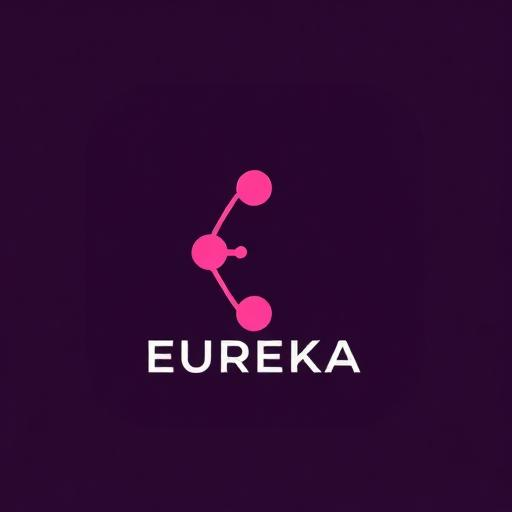
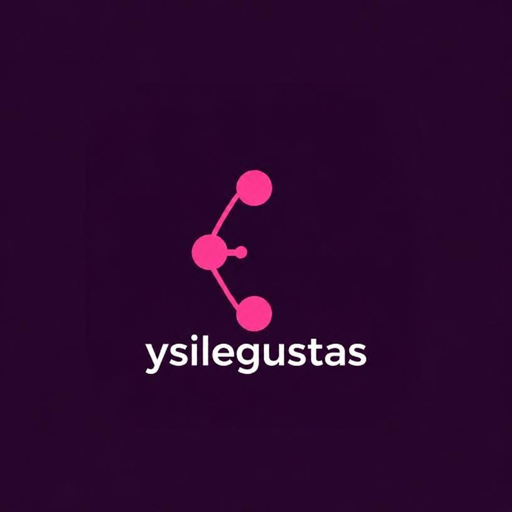
Sustituye la marca EurekaMatch por ysilegustas en web y comunicaciones

Changed region(s): [[0.2812, 0.6562, 0.7188, 0.75], [0.4375, 0.375, 0.4688, 0.4062], [0.4062, 0.4375, 0.4375, 0.4688]]

diff --git a/index.html b/index.html
@@ -5,33 +5,33 @@
     <meta name="viewport" content="width=device-width, initial-scale=1.0, maximum-scale=1.0, user-scalable=no" />
     
     <!-- App Info -->
-    <title>EUREKA - Descubre si es mutuo</title>
-    <meta name="description" content="Descubre si el amor, la amistad o la atracción es mutua. EUREKA te ayuda a saber si hay reciprocidad." />
-    <meta name="author" content="EUREKA" />
+    <title>ysilegustas - Descubre si le gustas a alguien que te gusta</title>
+    <meta name="description" content="Descubre si le gustas a alguien que te gusta. Elige en privado y conoce si el interés es mutuo." />
+    <meta name="author" content="ysilegustas" />
     
     <!-- PWA Meta Tags -->
     <meta name="theme-color" content="#e11d48" />
     <meta name="mobile-web-app-capable" content="yes" />
     <meta name="apple-mobile-web-app-capable" content="yes" />
     <meta name="apple-mobile-web-app-status-bar-style" content="black-translucent" />
-    <meta name="apple-mobile-web-app-title" content="EUREKA" />
+    <meta name="apple-mobile-web-app-title" content="ysilegustas" />
     
     <!-- PWA Icons -->
-    <link rel="icon" type="image/png" href="/favicon.ico" />
+    <link rel="icon" type="image/png" href="/favicon.png" />
     <link rel="apple-touch-icon" href="/apple-touch-icon.png" />
     <link rel="manifest" href="/manifest.webmanifest" />
     
     <!-- Open Graph -->
-    <meta property="og:title" content="EUREKA - Descubre si es mutuo" />
-    <meta property="og:description" content="Descubre si el amor, la amistad o la atracción es mutua" />
+    <meta property="og:title" content="ysilegustas - Descubre si le gustas a alguien que te gusta" />
+    <meta property="og:description" content="Descubre si le gustas a alguien que te gusta. Elige en privado y conoce si el interés es mutuo." />
     <meta property="og:type" content="website" />
     <meta property="og:image" content="/og-image.png" />
-    <meta property="og:url" content="https://eurekaconsent.lovable.app" />
+    <meta property="og:url" content="https://eurekamatch.com" />
     
     <!-- Twitter -->
     <meta name="twitter:card" content="summary_large_image" />
-    <meta name="twitter:title" content="EUREKA - Descubre si es mutuo" />
-    <meta name="twitter:description" content="Descubre si el amor, la amistad o la atracción es mutua" />
+    <meta name="twitter:title" content="ysilegustas - Descubre si le gustas a alguien que te gusta" />
+    <meta name="twitter:description" content="Descubre si le gustas a alguien que te gusta. Elige en privado y conoce si el interés es mutuo." />
     <meta name="twitter:image" content="/og-image.png" />
   </head>
 

diff --git a/src/pages/Landing.tsx b/src/pages/Landing.tsx
@@ -30,7 +30,7 @@ function ExperimentLanding() {
     <div className="landing-experiment min-h-screen bg-background text-foreground">
       <header className="border-b border-border">
         <div className="mx-auto flex max-w-6xl items-center justify-between gap-4 px-5 py-4 md:px-8">
-          <span className="flex items-center gap-2 text-lg font-semibold"><Sparkles className="h-5 w-5 text-primary" /> EurekaMatch</span>
+          <span className="flex items-center gap-2 text-lg font-semibold"><Sparkles className="h-5 w-5 text-primary" /> ysilegustas</span>
         </div>
       </header>
       <section className="landing-scene relative isolate overflow-hidden">
@@ -38,7 +38,7 @@ function ExperimentLanding() {
         <div className="landing-scene-shade absolute inset-0 -z-10" />
         <div className="mx-auto max-w-6xl px-5 pb-10 pt-12 md:px-8 md:pb-14 md:pt-20">
           <div className="max-w-xl">
-            <p className="mb-6 text-sm font-medium text-primary">EurekaMatch</p>
+            <p className="mb-6 text-sm font-medium text-primary">ysilegustas</p>
             <h1 className="text-4xl font-bold leading-tight md:text-5xl">{copy.title}</h1>
             <p className="mt-6 max-w-md text-base leading-relaxed text-secondary-foreground md:text-lg">{copy.subtitle}</p>
           </div>
@@ -70,7 +70,7 @@ function ExperimentLanding() {
           <div className="flex flex-wrap justify-center gap-4 text-xs text-muted-foreground">
             <Link to="/terms">Términos y Condiciones</Link><span>·</span><Link to="/privacy">Política de Privacidad</Link>
           </div>
-          <p className="text-xs text-muted-foreground">© {new Date().getFullYear()} EurekaMatch. Todos los derechos reservados.</p>
+          <p className="text-xs text-muted-foreground">© {new Date().getFullYear()} ysilegustas. Todos los derechos reservados.</p>
         </div>
       </footer>
     </div>

diff --git a/supabase/functions/send-email-verification/index.ts b/supabase/functions/send-email-verification/index.ts
@@ -112,9 +112,9 @@ const handler = async (req: Request): Promise<Response> => {
 
     // Send verification email
     await resend.emails.send({
-      from: "EurekaMatch <info@eurekamatch.com>",
+      from: "ysilegustas <info@eurekamatch.com>",
       to: [email],
-      subject: "✉ Verifica tu email en EurekaMatch",
+      subject: "✉ Verifica tu email en ysilegustas",
       html: generateVerificationEmail(verifyUrl),
     });
 
@@ -146,7 +146,7 @@ function generateVerificationEmail(verifyUrl: string): string {
         
         <div style="text-align: center; padding: 30px 0 20px;">
           <div style="font-size: 42px; margin-bottom: 8px;">💌</div>
-          <h1 style="color: #ffffff; margin: 0; font-size: 26px; font-weight: 700; letter-spacing: -0.5px;">EurekaMatch</h1>
+          <h1 style="color: #ffffff; margin: 0; font-size: 26px; font-weight: 700; letter-spacing: -0.5px;">ysilegustas</h1>
         </div>
         
         <div style="background: #16213e; border-radius: 16px; padding: 32px; border: 1px solid rgba(255,255,255,0.08);">
@@ -172,7 +172,7 @@ function generateVerificationEmail(verifyUrl: string): string {
         </div>
         
         <p style="text-align: center; font-size: 12px; color: #4a4a5e; margin-top: 24px; line-height: 1.5;">
-          Este email fue enviado desde EurekaMatch<br>
+          Este email fue enviado desde ysilegustas<br>
           Si no creaste una cuenta, puedes ignorar este email.
         </p>
       </div>

diff --git a/src/config/app.config.ts b/src/config/app.config.ts
@@ -20,7 +20,7 @@ export interface AppConfig {
 const appConfigs: Record<AppType, AppConfig> = {
   love: {
     appType: 'love',
-    appName: 'EUREKA LOVE',
+    appName: 'ysilegustas',
     maxPicks: 2,
     primaryColor: 'hsl(346, 77%, 49%)', // Rose/pink
     accentColor: 'hsl(346, 77%, 59%)',
@@ -28,7 +28,7 @@ const appConfigs: Record<AppType, AppConfig> = {
   },
   friends: {
     appType: 'friends',
-    appName: 'EUREKA FRIENDS',
+    appName: 'ysilegustas',
     maxPicks: 5,
     primaryColor: 'hsl(25, 95%, 53%)', // Orange/amber
     accentColor: 'hsl(25, 95%, 63%)',
@@ -36,7 +36,7 @@ const appConfigs: Record<AppType, AppConfig> = {
   },
   sex: {
     appType: 'sex',
-    appName: 'EUREKA SEX',
+    appName: 'ysilegustas',
     maxPicks: 2,
     primaryColor: 'hsl(0, 84%, 50%)', // Red
     accentColor: 'hsl(0, 84%, 60%)',
@@ -44,7 +44,7 @@ const appConfigs: Record<AppType, AppConfig> = {
   },
   hobby: {
     appType: 'hobby',
-    appName: 'EUREKA HOBBY',
+    appName: 'ysilegustas',
     maxPicks: 5,
     primaryColor: 'hsl(142, 71%, 45%)', // Green
     accentColor: 'hsl(142, 71%, 55%)',

diff --git a/src/pages/LegacyLanding.tsx b/src/pages/LegacyLanding.tsx
@@ -83,7 +83,7 @@ const Landing = () => {
             <div className="w-10 h-10 rounded-full flex items-center justify-center bg-gradient-to-br from-violet-500 to-purple-600 text-white">
               <Sparkles className="w-5 h-5" />
             </div>
-            <span className="text-lg font-semibold text-foreground">EUREKA</span>
+            <span className="text-lg font-semibold text-foreground">ysilegustas</span>
           </div>
           <LanguageSelector />
         </div>
@@ -231,7 +231,7 @@ const Landing = () => {
         <div className="max-w-4xl mx-auto text-center space-y-3">
           <LegalFooter />
           <p className="text-muted-foreground text-sm">
-            © {new Date().getFullYear()} EUREKA. {t("landing.footer.rights")}
+            © {new Date().getFullYear()} ysilegustas. {t("landing.footer.rights")}
           </p>
         </div>
       </footer>

diff --git a/supabase/functions/send-match-notification/index.ts b/supabase/functions/send-match-notification/index.ts
@@ -19,10 +19,10 @@ interface MatchNotificationRequest {
 
 // App-specific configurations
 const appConfigs: Record<string, { name: string; emoji: string; fromName: string }> = {
-  love: { name: "Eureka Love", emoji: "💕", fromName: "Eureka Love" },
-  friends: { name: "Eureka Friends", emoji: "🎉", fromName: "Eureka Friends" },
-  sex: { name: "Eureka Sex", emoji: "🔥", fromName: "Eureka Sex" },
-  hobby: { name: "Eureka Hobby", emoji: "🏆", fromName: "Eureka Hobby" },
+  love: { name: "ysilegustas", emoji: "💕", fromName: "ysilegustas" },
+  friends: { name: "ysilegustas", emoji: "🎉", fromName: "ysilegustas" },
+  sex: { name: "ysilegustas", emoji: "🔥", fromName: "ysilegustas" },
+  hobby: { name: "ysilegustas", emoji: "🏆", fromName: "ysilegustas" },
 };
 
 // Email translations per language

diff --git a/supabase/functions/create-paypal-order/index.ts b/supabase/functions/create-paypal-order/index.ts
@@ -85,13 +85,13 @@ serve(async (req) => {
               currency_code: "EUR",
               value: Number(pack.price).toFixed(2),
             },
-            description: `EUREKA - ${pack.name} (${pack.picks_count} créditos)`,
+            description: `ysilegustas - ${pack.name} (${pack.picks_count} créditos)`,
             // custom_id stores only user_id and pack_id; price/picks are re-read from DB on capture
             custom_id: JSON.stringify({ user_id: userId, pack_id: pack.id }),
           },
         ],
         application_context: {
-          brand_name: "EUREKA",
+          brand_name: "ysilegustas",
           landing_page: "BILLING",
           shipping_preference: "NO_SHIPPING",
           user_action: "PAY_NOW",

diff --git a/supabase/functions/send-pick-notification/index.ts b/supabase/functions/send-pick-notification/index.ts
@@ -156,12 +156,12 @@ serve(async (req: Request) => {
     }
 
     const appNames: Record<string, string> = {
-      love: "Eureka Love 💕",
-      friends: "Eureka Friends 🎉",
-      sex: "Eureka Sex 🔥",
-      hobby: "Eureka Hobby 🏆",
+      love: "ysilegustas 💕",
+      friends: "ysilegustas 🎉",
+      sex: "ysilegustas 🔥",
+      hobby: "ysilegustas 🏆",
     };
-    const appLabel = appNames[pick.app_type] || "EurekaMatch";
+    const appLabel = appNames[pick.app_type] || "ysilegustas";
 
     const optOutText = "\n\nPara dejar de recibir estos mensajes, entra en eurekamatch.lovable.app y desactívalo en Ajustes.";
     const template = globalConfig.notification_sms_template ||

diff --git a/vite.config.ts b/vite.config.ts
@@ -18,10 +18,10 @@ export default defineConfig(({ mode }) => ({
     mode === "development" && componentTagger(),
     VitePWA({
       registerType: "autoUpdate",
-      includeAssets: ["favicon.ico", "apple-touch-icon.png", "mask-icon.svg"],
+      includeAssets: ["favicon.png", "apple-touch-icon.png", "mask-icon.svg"],
       manifest: {
-        name: "EUREKA - Descubre si es mutuo",
-        short_name: "EUREKA",
+        name: "ysilegustas - Descubre si es mutuo",
+        short_name: "ysilegustas",
         description: "Descubre si el amor, la amistad o la atracción es mutua",
         theme_color: "#e11d48",
         background_color: "#0f0f0f",

diff --git a/src/pages/Admin.tsx b/src/pages/Admin.tsx
@@ -444,7 +444,7 @@ const Admin = () => {
                     <Textarea
                       value={globalForm.notification_sms_template}
                       onChange={(e) => setGlobalForm((p) => ({ ...p, notification_sms_template: e.target.value }))}
-                      placeholder="Alguien ha pensado en ti en EurekaMatch 💫"
+                      placeholder="Alguien ha pensado en ti en ysilegustas 💫"
                       rows={3}
                     />
                     <p className="text-xs text-muted-foreground mt-1">El mensaje es anónimo. No se revela quién lo envía.</p>

diff --git a/src/pages/Settings.tsx b/src/pages/Settings.tsx
@@ -214,7 +214,7 @@ const Settings = () => {
               onClick={() => {
                 const url = `${window.location.origin}/login?ref=${referralCode}`;
                 if (navigator.share) {
-                  navigator.share({ title: 'EurekaMatch', text: t("referral.shareText"), url });
+                  navigator.share({ title: 'ysilegustas', text: t("referral.shareText"), url });
                 } else {
                   navigator.clipboard.writeText(url);
                   toast.success(t("common.copied"));

diff --git a/src/pages/AppLanding.tsx b/src/pages/AppLanding.tsx
@@ -347,7 +347,7 @@ const AppLanding = () => {
         <div className="max-w-4xl mx-auto text-center space-y-3">
           <LegalFooter />
           <p className="text-muted-foreground text-sm">
-            © {new Date().getFullYear()} EUREKA. {t("landing.footer.rights")}
+            © {new Date().getFullYear()} ysilegustas. {t("landing.footer.rights")}
           </p>
         </div>
       </footer>
